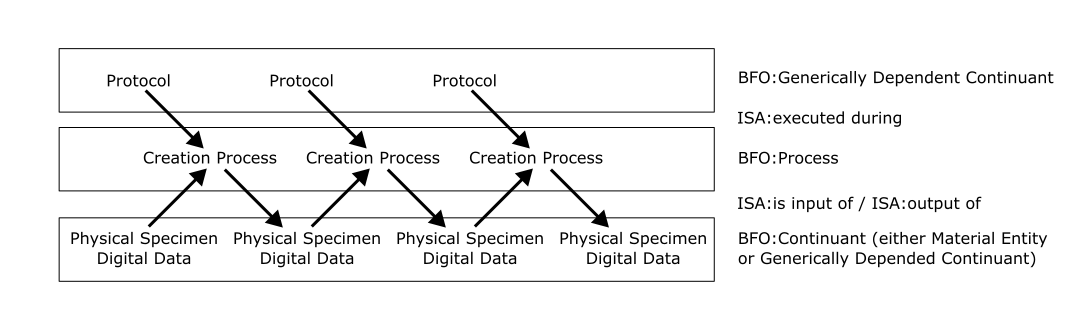
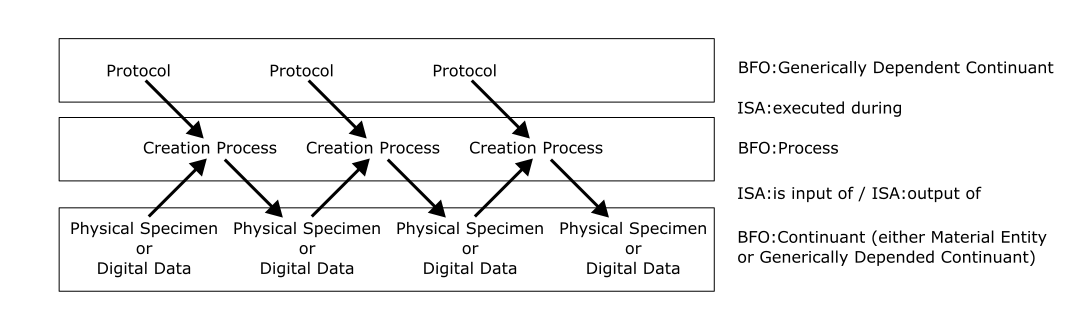
fix typos, and rephrase docs

diff --git a/src/bia_ro_crate/models/model_docs/MODEL.md b/src/bia_ro_crate/models/model_docs/MODEL.md
@@ -2,13 +2,13 @@
 
 This document is about the structure of the BioImage Archive (BIA) datamodels, and includes commentary on the approach to the design.
 
-Because the data is modelled in an RO-Crate, and RO-Crate requires referenced fields and classes to have a term definition in the context, this document contains a lot of discussion on ontological concepts and specific ontologies to provide URIs and definitions for the properties and classes. If any of these terms are unfamiliar to you, there is an overview in the root README for this package.
+Because the data is modelled in an RO-Crate, and RO-Crate requires referenced fields and classes to have a term definition in the context, this document contains a lot of discussion on ontological concepts and specific ontologies to provide URIs and definitions for the properties and classes. If any of these terms are unfamiliar to you, there is an overview in the [root README](../../../../README.md) for this package.
 
 RO-Crate requires a number of properties and classes from [schema.org](https://schema.org/), but these are not enough to cover the specifics of biological imaging. The biological sciences already make extensive use of ontologies, so we have reviewed relevant ontologies in order to re-use terms or find suitable parents for terms we have to create.
 
 ## Basic Formal Ontology
 
-[Basic Formal Ontology (BFO)](https://bfo-ontology.github.io/) is an 'upper ontology' that is often used in scienfitic domains as a parent structure for domain specific 'reference ontologies'.
+[Basic Formal Ontology (BFO)](https://bfo-ontology.github.io/) is an 'upper ontology' that is often used in scientific domains as a parent structure for domain specific 'reference ontologies'.
 
 Many of the most relevant ontologies reuse classes from BFO, such as:
 
@@ -29,26 +29,26 @@ The BIA's data forms into chains of inputs and outputs to processes:
 The three main kinds of objects are:
 
 * Protocols that are descriptions of the plan followed during a scientific study.
-* Creation Processes which are the event which produced data or a phsyical specimen. For instance, a particular imaging session for a single image.
+* Creation Processes which are the events which that produced data or physical specimens. For instance, a particular imaging session for a single image.
 * Two kinds of inputs or outputs to these creation processes: either physical objects such as a specimen, or digital data. However, we do sometimes also need to fall back to describing abstract classes of such things, rather than the individual elements.
 
 ### Detailed explanation on parent classes choice
 
-The protocol is a plan. It has no temporal boundaries, and therefore is a continuant. A protocol describes the generics of any [concretization](http://purl.obolibrary.org/obo/RO_0000059) of itself, and so is not tied to a specific (just as 'redness' describes some aspect the more concrete 'the red colour of a partciular apple' - a specifically dependent continuant). Therefore the class Protocol is a subclass of Generically Dependent Continuant, which matches the protocol classes that exist in [OBI](http://purl.obolibrary.org/obo/OBI_0000272) and [ISA](http://purl.org/isaterms/protocol).
+The protocol is a plan. It has no temporal boundaries, and therefore is a continuant. A protocol describes the generics of any [concretization](http://purl.obolibrary.org/obo/RO_0000059) of itself, and so is not tied to a specific (just as 'redness' describes some aspect the more concrete 'the red colour of a particular apple' - a specifically dependent continuant). Therefore the class Protocol is a subclass of Generically Dependent Continuant, which matches the protocol classes that exist in [OBI](http://purl.obolibrary.org/obo/OBI_0000272) and [ISA](http://purl.org/isaterms/protocol).
 
-Creation Processes represent the event in which an agent created specific data recording or physical objects. The assumption that some material entity that the process depends on is the agent that initiated the process. Therefore the class CreationProcess is a subclass of [Process](http://purl.obolibrary.org/obo/BFO_0000015) from BFO.
+A Creation Process represents an event in which an agent created a specific data recording or physical object. In order to satisfy the definition of [Process](http://purl.obolibrary.org/obo/BFO_0000015), the agent that initiated the process can be the material entity that the process depends on.
 
-The specimens are phsyical and therefore are straightforwardly a subclass of Material Entity. Digital data is often best modelled using FRBR-style work-expression-manifestation-item: which isn't necessarily aligned with BFO's realist approach to ontology. However, the best fit, as showing the example from the IAO, is to model these as generically dependent continuants, with the reasoning that they depend on the existance of the raw data in some form on a drive at a given point in time.
+The specimens are physical and therefore are straightforwardly a subclass of Material Entity. Digital data is often best modelled using FRBR-style work-expression-manifestation-item: which isn't necessarily aligned with BFO's realist approach to ontology. However, the best fit, as showing the example from the IAO, is to model these as generically dependent continuants, with the reasoning that they depend on the existence of the raw data in some form on a drive at a given point in time.
 
-As mentioned above, we occassionally deal with describing a set of objects rather than the individual. BFO is not designed with this in mind: 'universals', as it calls them, exist in the class space, and are not modelled in the 'instance' space. I suspect this may be why the NCBI taxonomy does not re-use BFO: it's taxonomic ranks (classes of classes) don't fit well. However, the closest match might be generically dependent continuants, in that archetypcal class definitions can be thought of as a pattern which applies to all instances of it.
+As mentioned above, we occasionally deal with describing a set of objects rather than the individual. BFO is not designed with this in mind: 'universals', as it calls them, exist in the class space, and are not modelled in the 'instance' space. I suspect this may be why the NCBI taxonomy does not re-use BFO: its taxonomic ranks (classes of classes) don't fit well. However, the closest match might be generically dependent continuants, in that archetypal class definitions can be thought of as a pattern which applies to all instances of it.
 
-Therefore in the 3 cases of Physical Specimens, Digital Data, and sets of these, we can use Continuant, or the two more specific classes of Material Entity and Generically Dependent Continuant.
+Therefore in the 3 cases of Physical Specimens, Digital Data, and sets of these, we can use Continuant, or the two more specific classes of Material Entity and Generically Dependent Continuant. Note that we make a distinction between the data of the images and their representations/serialization into a particular file. This is covered in more detail in [the section below on frbr](#image-representations-and-frbr)
 
 ### Properties
 
-ISA's properties are well aligned with our model, and provide inverse property pairs of: 'executes/execuded during', 'has output/is output of', 'has input/is output of' which cover the three main connections around the creation process. All of these have suitable rdfs:domain and rdfs:range definitions.
+ISA's properties are well aligned with our model, and provide inverse property pairs of: 'executes/executed during', 'has output/is output of', 'has input/is output of' which cover the three main connections around the creation process. All of these have suitable rdfs:domain and rdfs:range definitions.
 
-BFO relies on an intermediary object of a specific dependent continuant, and use the property chain 'realizes' & 'concretizes' to provide this connection. COB has similarly named properties, but with little by either human or machine interpretable definitions it is less clear if they apply to our use case here.
+BFO relies on an intermediary object of a specific dependent continuant, and use the property chain 'realizes' & 'concretizes' to provide this connection. COB has similarly named properties, but with no definitions (neither text nor formal logic) it is less clear if they apply to our use case here.
 
 ## Specific classes, properties, and shortcuts
 
@@ -58,44 +58,46 @@ Protocols are subclassed, and while we use _name_ and _description_ from schema.
 
 ### Model shortcuts
 
-We want to simplify to process of submitting data to the BIA. We have typically found users specify protocol and bio sample level information. Due to the vast scale of imaging expierments that is achieveable today, producing millions of images using hundreds of samples grown and treated in batches, it is not always practical (or necessary) to require information be provided at this level.
+We want to simplify the process of submitting data to the BIA. We have typically found users specify protocol and BioSample level information. Due to the vast scale of imaging experiments that is achievable today, producing millions of images using hundreds of samples grown and treated in batches, it is not always practical (or necessary) to require information be provided at this level.
 
-We therefore allow some simplifications with the assumptions that there exists one-to-one correspondance between the instances of some classes.
+We therefore allow some simplifications with the assumptions that there exists one-to-one correspondence between the instances of some classes.
 
-![Fig. 2. Modification of Fig.1. showing more specific classes for the protocols (Growth Protocol, Annotation Method, etc.) and the data/specimens. Showing skipping of the creation prcoesses for Bio Sample and Specimen.](ro-crate-detailed-datamodels_2.png)
+![Fig. 2. Modification of Fig.1. showing more specific classes for the protocols (Growth Protocol, Annotation Method, etc.) and the data/specimens. Showing skipping of the creation processes for Bio Sample and Specimen.](ro-crate-detailed-datamodels_2.png)
 
-One simplification that we make is around the creation process of the specimen. As an imaging database, our primary concern is the about the biological matter that was imaged. Modelling and storing data about derived material entities and the process through which they were created is not within our perview, and we leave that to other databases (such as [BioSamples](https://www.ebi.ac.uk/biosamples/)). We therefore skip some of the creation processes involved in the creation of bio samples and specimens, and agglomerate the protocol metadata across a Growth Protocol and a Specimen Imaging Preparation Protocol.
+One simplification that we make is around the creation process of the specimen. As an imaging database, our primary concern is the about the biological matter that was imaged. Modelling and storing data about derived material entities and the process through which they were created is not within our purview, and we leave that to other databases (such as [BioSamples](https://www.ebi.ac.uk/biosamples/)). We therefore skip some of the creation processes involved in the creation of bio samples and specimens, and agglomerate the protocol metadata across a Growth Protocol and a Specimen Imaging Preparation Protocol.
 
 ![pic 3](ro-crate-detailed-datamodels_3.png)
 
 Further simplification can be made if images do not share the same creation process and there is no process specific information that needs storing. Creation processes typically exist as mediating objects that provide connections between three or more pieces of information. This is a common approach for data which cannot be naturally described in JSON-LD or RDF triples without some form of reification.
 
-It is often the case that for every image we would only have one creation process, as even in time-series data, we would consider all 2-dimensional arrays of data to be part of the same 5-dimensional image. Similarly specimens are often unqiue to imageing sessions. Our model supports both explicit definitions of creation process or this simplified version that assumes a 1-1 correspondance with the creation-processes and the images.
+It is often the case that for every image we would only have one creation process, as even in time-series data, we would consider all 2-dimensional arrays of data to be part of the same 5-dimensional image (3 spatial, 1 temporal, and the source of the signal/channel information). Similarly specimens are often unique to imaging sessions, and their presence can be assumed.
+
+Our model supports both explicit definitions of creation process or this simplified version that assumes a 1-1 correspondence with the creation-processes and the images.
 
 ## Studies, Datasets, and aggregate metadata
 
-Following the RO-Crate specificition, we have a root schema:Dataset object to encapsulate all the associated information and associate it with the authors and license of the data.
+Following the RO-Crate specification, we have a root schema:Dataset object to encapsulate all the associated information and associate it with the authors and license of the data.
 
 This corresponds well with REMBI fields on the Study object. It is less clear to what class this corresponds to in biological ontologies. As a collection of data, IAO:Information Content Entity is a decent fit, and that is the approach the [SSBD Ontology](https://bioportal.bioontology.org/ontologies/SSBD) has taken for SSBD datasets (note that SSBD projects exist under Process, and this is where SSBD stores licence information, authorship, etc).
 
 ![pic 5](ro-crate-detailed-datamodels_5.png)
 
-The 'hasPart' relation is usually considered transitive, and the BFO classes used would suggest that if the data is a continuant, the Dataset and Study objects would also be BFO:Continuants (conversely, the 'hasPart' relation of an occurent like a process would expected to be other process or temporal regions).
+The 'hasPart' relation is usually considered transitive, and the BFO classes used would suggest that if the data is a continuant, the Dataset and Study objects would also be BFO:Continuants (conversely, the 'hasPart' relation of an occurrent like a process would expected to be other process or temporal regions).
 
 Note that this means the Study level object here is different to an ISA:Study or ISA:Investigation, that is a subclass of BFO:Process (a BFO:Occurant). As processes, these lend themselves to modelling the 'actions that were performed to create the output data' at various hierarchies, rather than the output data and the protocols (plans) that were followed for those actions.
 
-It is of course possible to merge such concepts into a single instance if necessary. For isntance, it can be useful to treat the Government, Geographical territory, and inhabitants of a country as 3 separate objects of different classes, or refer to all of them at once, depending on the required granularity of modelling. It should, however, be a concious decision to do such a merge, as use of some properties or fields could introduce logical contradictions in the resulting graph.
+It is of course possible to merge such concepts into a single instance if necessary. For instance, it can be useful to treat the Government, Geographical territory, and inhabitants of a country as 3 separate objects of different classes, or refer to all of them at once, depending on the required granularity of modelling. It should, however, be a concious decision to do such a merge, as use of some properties or fields could introduce logical contradictions in the resulting graph.
 
 ### Dataset to protocol aggregations
 
 ![pic 4](ro-crate-detailed-datamodels_4.png)
 
-Datasets are aggregations over individual data items, each created by following some protocols. We should only be able to connect the protocols used to create the individual data items if the protocols are used in all cases. However, we use a 2-tier approach to modelling this. In the case of datasets and shortcuts, association data is assumed to be relevant to some part of the data. E.g. some part of the dataset or image is the result of following a Fluorensence Microscopy protocol. There may be other imaging types involved: some images of the dataset might be electron microscopy. Some data inside an image might be correleated electron microscopy.
+Datasets are aggregations over individual data items, each created by following some protocols. We should only be able to connect the protocols used to create the individual data items if the protocols are used in all cases. However, we use a 2-tier approach to modelling this. In the case of datasets and shortcuts, association data is assumed to be relevant to some part of the data. E.g. some part of the dataset or image is the result of following a Fluorescence Microscopy protocol. There may be other imaging types involved: some images of the dataset might be electron microscopy. Some data inside an image might be correlated electron microscopy.
 
 ## Image Representations and FRBR
 
-[Functional Representation of Bibilographic Records (FRBR)](https://www.ifla.org/wp-content/uploads/2019/05/assets/cataloguing/frbr/frbr.pdf) is a recommended approach to modelling library catalogues. It uses a four level hierarchy of objects to cover the abstract Creative Work (a conceptual story, such as the story of 'The Hobbit' by J.R.R. Tolkien), phsyical items (the HarperCollins 1995 editition of 'The Hobbit' on my shelf at home), and two levels of abstraction in between.
+[Functional Representation of Bibliographic Records (FRBR)](https://www.ifla.org/wp-content/uploads/2019/05/assets/cataloguing/frbr/frbr.pdf) is a recommended approach to modelling library catalogues. It uses a four level hierarchy of objects to cover the abstract Creative Work (a conceptual story, such as the story of 'The Hobbit' by J.R.R. Tolkien), physical items (the HarperCollins 1995 edition of 'The Hobbit' on my shelf at home), and two levels of abstraction in between.
 
-This approach to modelling is a good fit for the BIA's image modelling. A particular image file is a representation of the data array of captured in the imaging session. Lossless transformations between image files produce different frbr:Items of the same frbr:Work: whether through exact copies, reorganisation of the array, such as re-chunking ome zarrs, or conversion to a different format e.g betwen zarr and tiff.
+This approach to modelling is a good fit for the BIA's image modelling. A particular image file is a representation of the data array captured in the imaging session. Lossless transformations between image files produce different frbr:Items of the same frbr:Work whether through exact copies, reorganisation of the array, such as re-chunking ome zarrs, or conversion to a different format e.g between zarr and tiff.
 
-BFO (2.0) recommends [(secton see 3.8.2)](https://raw.githubusercontent.com/BFO-ontology/BFO/master/docs/bfo2-reference/BFO2-Reference.pdf) the use of generically dependent continuants for the modelling of works, which corresponds with our re-use of IAO's Information Content Entity. My understanding is that IAO would also model the image representation as Information Content Entity, as there is not an appropriate specifically dependent continuant or even independent continuant to model the data as stored.
+BFO (2.0) recommends [(see section 3.8.2)](https://raw.githubusercontent.com/BFO-ontology/BFO/master/docs/bfo2-reference/BFO2-Reference.pdf) the use of generically dependent continuants for the modelling of works, which corresponds with our re-use of IAO's Information Content Entity. My understanding is that IAO would also model the image representation as Information Content Entity, as there is not an appropriate specifically dependent continuant or even independent continuant to model the data as stored.
